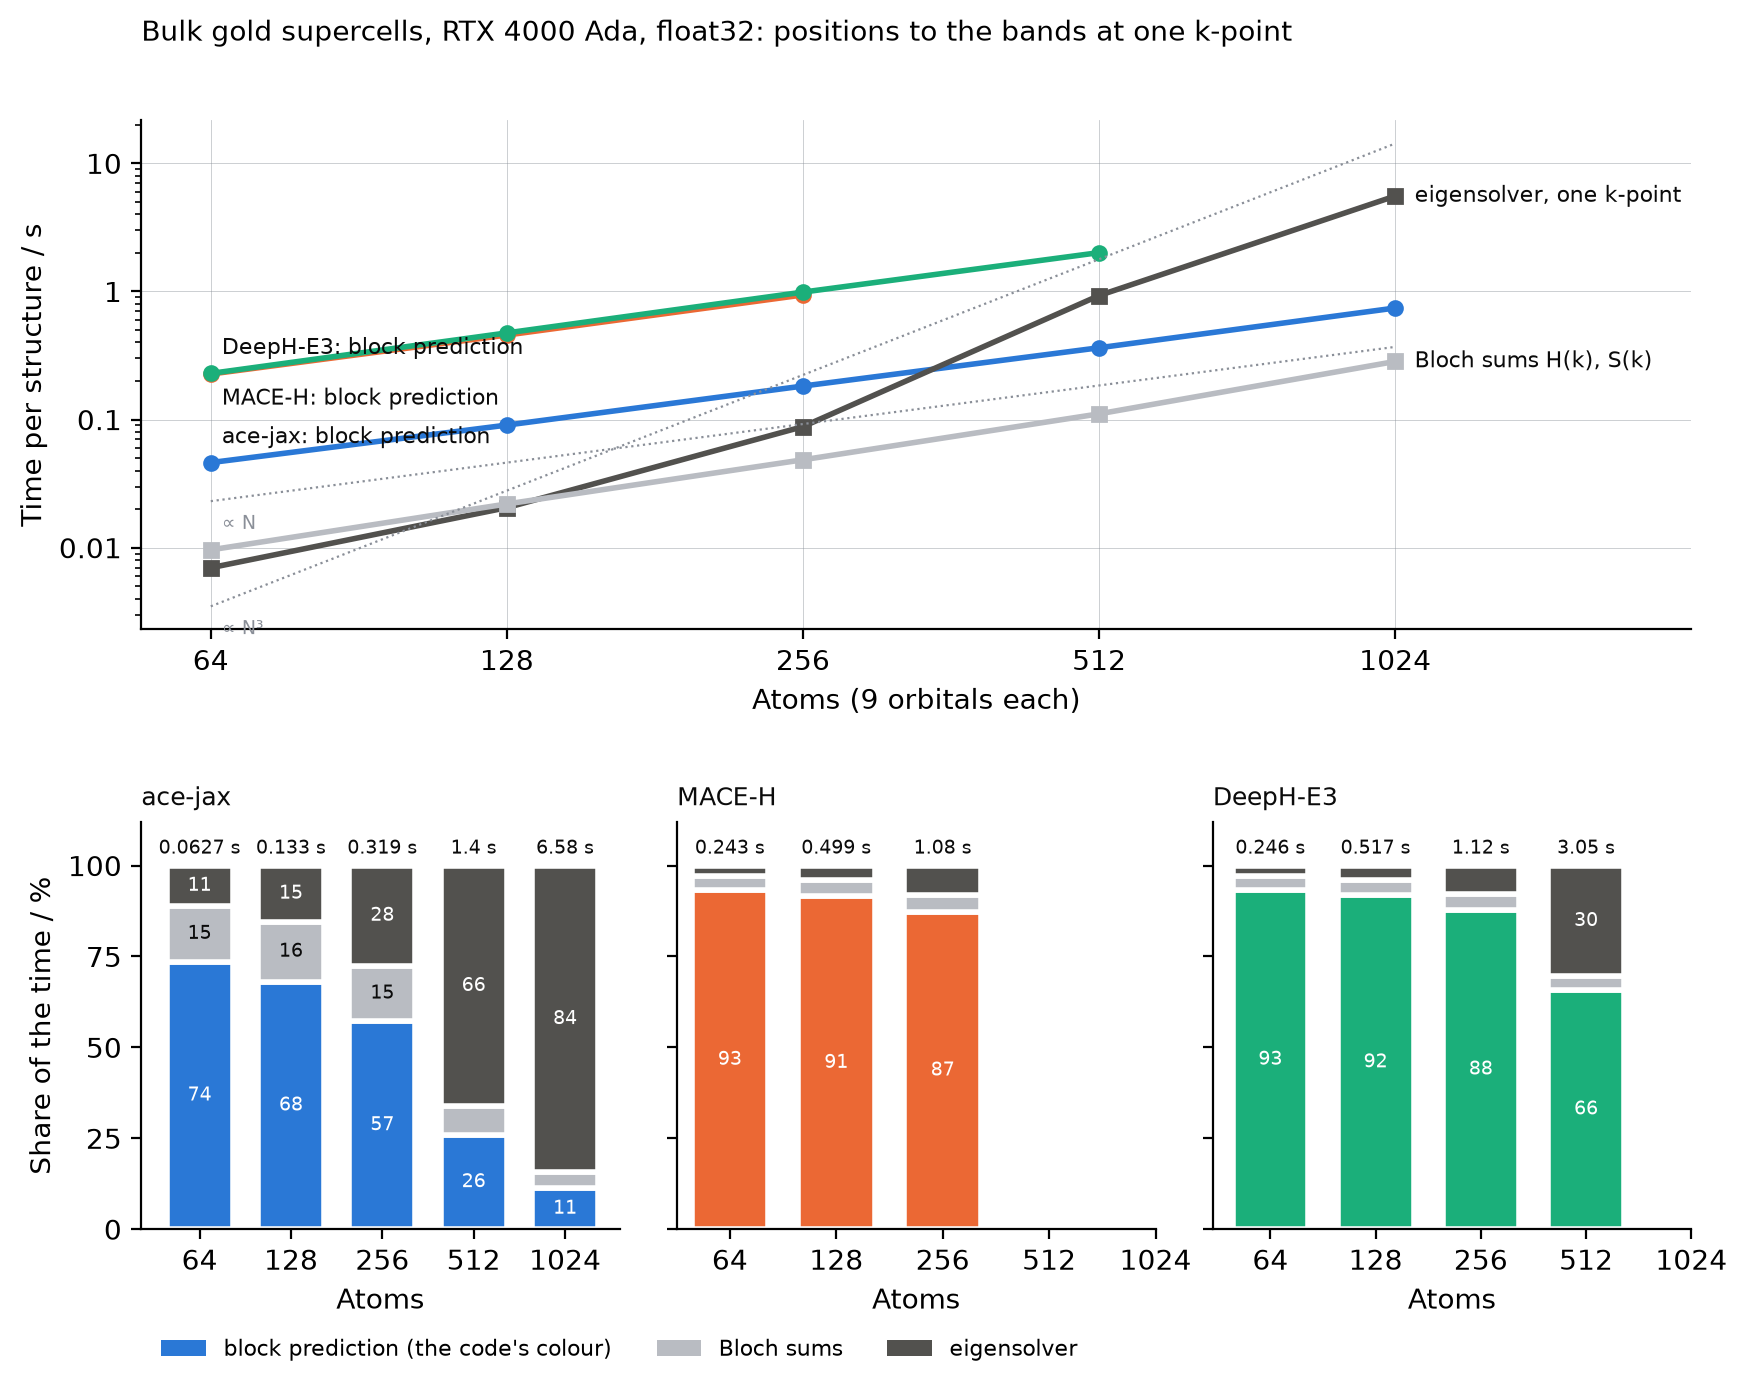
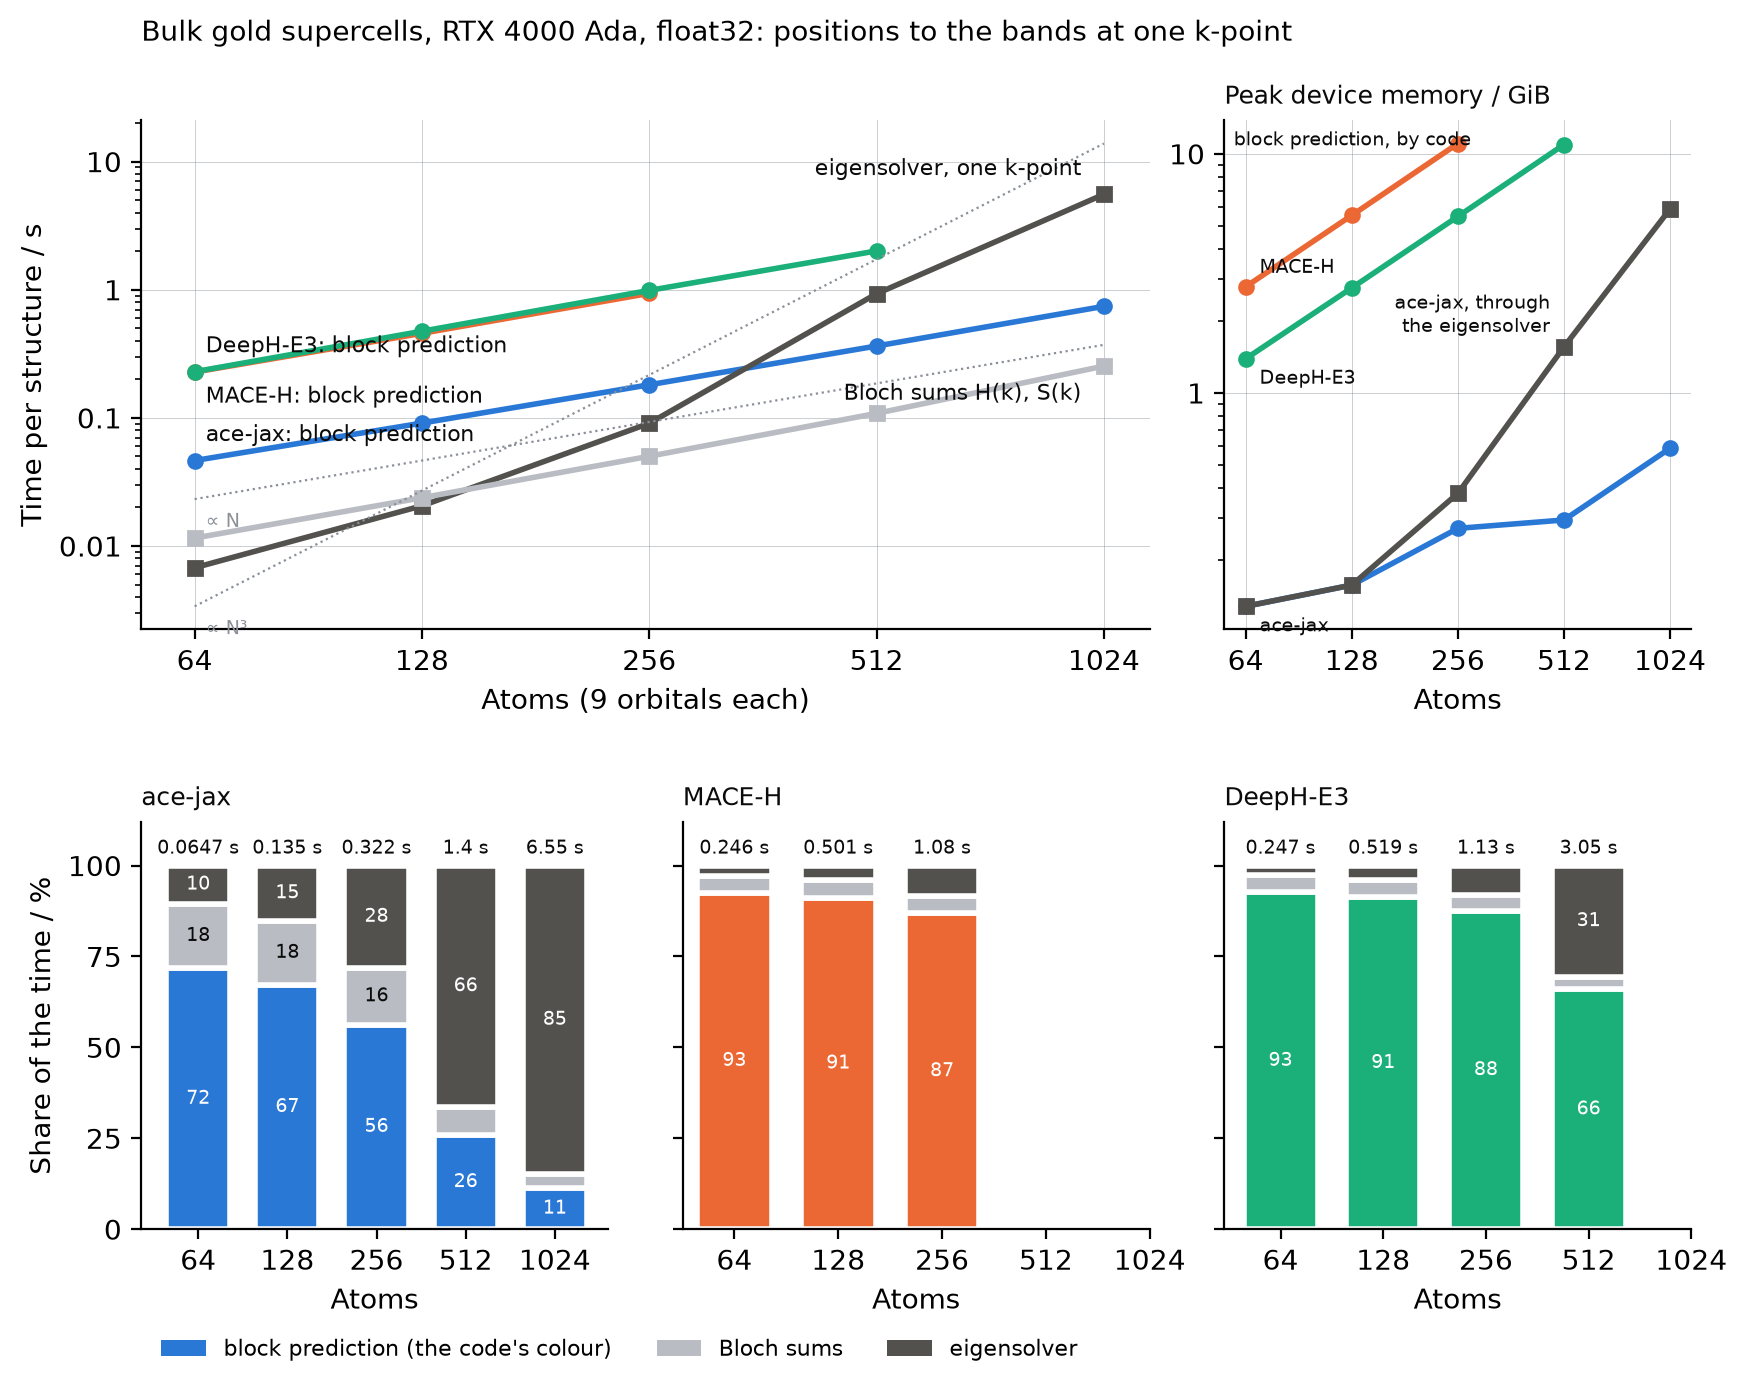
fix(ham): Bloch sum without the sorted-segment hint (it crashed XLA's GPU compiler under vmap); scaling figures with the new sum and peak device memory; ACEhamiltonians.jl collection fixes

diff --git a/bench/ham/size_plot.py b/bench/ham/size_plot.py
@@ -48,23 +48,27 @@ for code, t in pred.items():
     ok = np.flatnonzero(np.isfinite(t))
     a.annotate(f"{code}: block prediction", (N[ok[0]], t[ok[0]]), xytext=(4, 7 if code != "MACE-H" else -11), textcoords="offset points", fontsize=8, color=INK)
 a.plot(N, eig, color=EIG, lw=2, marker="s", ms=5)
-a.annotate("eigensolver, one k-point", (N[-1], eig[-1]), xytext=(7, 0), textcoords="offset points", va="center", fontsize=8, color=INK)
+a.annotate("eigensolver, one k-point", (N[-1], eig[-1]), xytext=(-8, 5), textcoords="offset points", ha="right", va="bottom", fontsize=8, color=INK)
 a.plot(N, bloch, color=BLOCH, lw=2, marker="s", ms=5)
-a.annotate("Bloch sums H(k), S(k)", (N[-1], bloch[-1]), xytext=(7, 0), textcoords="offset points", va="center", fontsize=8, color=INK)
+a.annotate("Bloch sums H(k), S(k)", (N[-1], bloch[-1]), xytext=(-8, -6), textcoords="offset points", ha="right", va="top", fontsize=8, color=INK)
 g = np.array([N[0], N[-1]], float)                       # guides through the first points: O(N) and O(N^3)
 a.plot(g, pred["ace-jax"][0] * g / g[0] * 0.5, color=MUTED, lw=0.8, ls=":"); a.annotate("∝ N", (g[0], pred["ace-jax"][0] * 0.5), xytext=(4, -10), textcoords="offset points", fontsize=7, color=MUTED)
 a.plot(g, eig[0] * (g / g[0]) ** 3 * 0.5, color=MUTED, lw=0.8, ls=":"); a.annotate("∝ N³", (g[0], eig[0] * 0.5), xytext=(4, -10), textcoords="offset points", fontsize=7, color=MUTED)
 a.set_xscale("log", base=2); a.set_yscale("log"); a.set_xticks(N); a.set_xticklabels([str(n) for n in N])
 a.yaxis.set_major_formatter(FuncFormatter(lambda v, _: f"{v:g}"))
-a.set_xlim(N[0] * 0.85, N[-1] * 2.0); a.set_xlabel("Atoms (9 orbitals each)"); a.set_ylabel("Time per structure / s")
+a.set_xlim(N[0] * 0.85, N[-1] * 1.15); a.set_xlabel("Atoms (9 orbitals each)"); a.set_ylabel("Time per structure / s")
 a.grid(True, which="major", color=MUTED, lw=0.3, alpha=0.5)
 if has_mem:
     c = f.add_subplot(gs[0, 2])
     for code, v in mem.items():
         c.plot(N, v, color=COL[code], lw=2, marker="o", ms=5)
     c.plot(N, mem_all, color=EIG, lw=2, marker="s", ms=5)
-    c.annotate("ace-jax through\nthe eigensolver", (N[-1], mem_all[-1]), xytext=(-6, 4), textcoords="offset points", ha="right", va="bottom", fontsize=7, color=INK)
-    c.annotate("prediction:\nthe codes' colours", (N[0], np.nanmax([v[0] for v in mem.values()])), xytext=(0, 12), textcoords="offset points", fontsize=7, color=INK)
+    c.annotate("ace-jax, through\nthe eigensolver", (N[-2], mem_all[-2]), xytext=(-5, 3), textcoords="offset points", ha="right", va="bottom", fontsize=7, color=INK)
+    for code, v in mem.items():
+        ok = np.flatnonzero(np.isfinite(v) & (v > 0))
+        if len(ok):
+            c.annotate(code, (N[ok[0]], v[ok[0]]), xytext=(5, -9 if code != "MACE-H" else 5), textcoords="offset points", fontsize=7, color=INK)
+    c.text(0.02, 0.98, "block prediction, by code", transform=c.transAxes, va="top", fontsize=7, color=INK)
     c.set_xscale("log", base=2); c.set_yscale("log"); c.set_xticks(N); c.set_xticklabels([str(n) for n in N])
     c.yaxis.set_major_formatter(FuncFormatter(lambda v, _: f"{v:g}")); c.set_xlabel("Atoms"); c.set_title("Peak device memory / GiB", fontsize=9, loc="left", color=INK)
     c.grid(True, which="major", color=MUTED, lw=0.3, alpha=0.5)

diff --git a/bench/ham/aceh_gold.py b/bench/ham/aceh_gold.py
@@ -57,13 +57,16 @@ def collect(pred, gold, out, flip=1):
         for k in sorted(f["test"]):
             g = f[f"test/{k}"]
             name = g.attrs["name"]
+            name = name.decode() if isinstance(name, bytes) else str(name)
             d = deeph.read(os.path.join(gold, "test", name), operators=("H",))
             ss = signs(d, flip)
             up = np.triu(np.ones_like(ss))                         # the s1 <= s2 part, by orbitals
             o = np.cumsum([0] + [2 * l + 1 for l in d.basis.ls(int(d.numbers[0]))])
             for a in range(len(o) - 1):
                 up[o[a]:o[a + 1], o[a]:o[a + 1]] = 1.0
-            keys = [tuple(int(v) for v in key) for key in g["bonds"][()]]
+            bonds = g["bonds"][()]
+            bonds = bonds.T if bonds.shape[0] == 5 and bonds.shape[1] != 5 else bonds      # HDF5.jl writes its axes reversed
+            keys = [tuple(int(v) for v in key) for key in bonds]
             P = dict(zip(keys, g["pred_off"][()]))
             H = {key: v * up + (P[(-key[0], -key[1], -key[2], key[4], key[3])] * up).T * (1 - up) for key, v in P.items()}
             for i, v in enumerate(g["pred_on"][()]):

diff --git a/tests/test_ham_calculator.py b/tests/test_ham_calculator.py
@@ -126,7 +126,7 @@ def test_calculator_from_a_model_file_and_aj_eval(models, tmp_path, capsys):  # 
         at = Atoms(numbers=numbers, positions=pos, cell=cell, pbc=True)
         a, b = at.copy(), at.copy()
         a.calc, b.calc = ref, calc
-        assert a.get_potential_energy() == b.get_potential_energy() and np.array_equal(a.get_forces(), b.get_forces())
+        assert abs(a.get_potential_energy() - b.get_potential_energy()) < 1e-11 and np.allclose(a.get_forces(), b.get_forces(), atol=1e-10)   # bit-equal on a CPU; a GPU's eigensolver is not
         H, S = ref.get_hamiltonian(at), ref.get_overlap(at)
         cache.save(str(tmp_path / "ref" / f"{i}.npz"), OperatorData(cell, pos, numbers, ref.predictor.orbitals,
                                                                    {"H": {k: v + shift * S[k] for k, v in H.items()}, "S": S}))

diff --git a/src/ace_jax/ham/operator.py b/src/ace_jax/ham/operator.py
@@ -71,7 +71,7 @@ def _bloch_blocks_impl(B, idx, R, seg, kpts, n_orb):
     def one(k):
         M = jnp.zeros(n_orb * n_orb, cdtype)
         for b, i, r, g in zip(B, idx, R, seg):
-            pair = jax.ops.segment_sum(jnp.exp(2j * jnp.pi * (r @ k)).astype(cdtype)[:, None, None] * b, g, num_segments=i.shape[0], indices_are_sorted=True)
+            pair = jax.ops.segment_sum(jnp.exp(2j * jnp.pi * (r @ k)).astype(cdtype)[:, None, None] * b, g, num_segments=i.shape[0])      # not indices_are_sorted: under vmap it crashes XLA's GPU compiler (jaxlib 0.10)
             M = M.at[i.reshape(-1)].set(pair.reshape(-1), unique_indices=True)
         return M.reshape(n_orb, n_orb)
 
